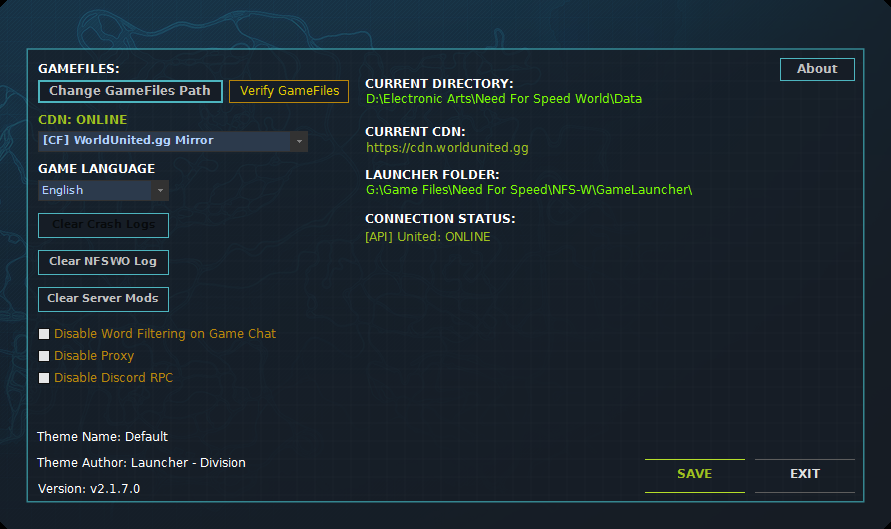
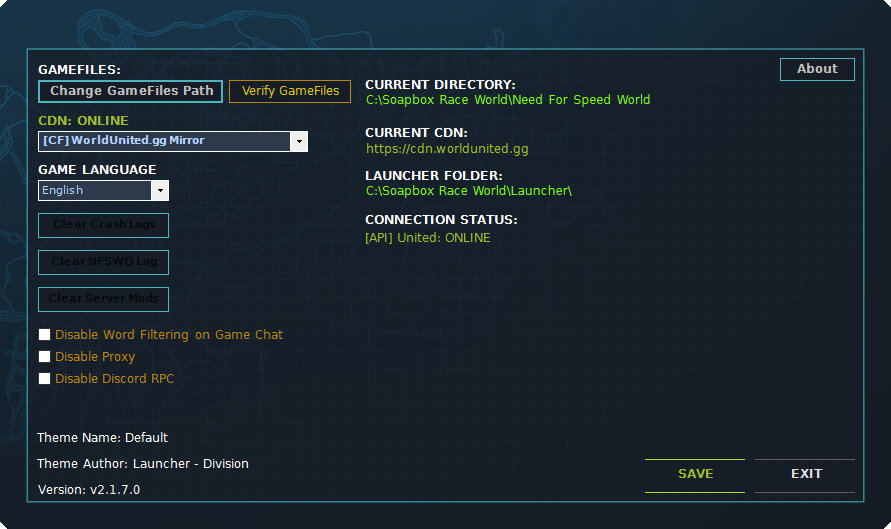
Touchups
Minor adjustments to UI/Alignment found when creating new Install Guide.

Updated github screenshots to account for DPI changes on W10 (which they were taken on)

diff --git a/GameLauncher/App/SettingsScreen.Designer.cs b/GameLauncher/App/SettingsScreen.Designer.cs
@@ -169,7 +169,7 @@ namespace GameLauncher.App
             this.SettingsVFilesButton.ForeColor = System.Drawing.Color.FromArgb(((int)(((byte)(224)))), ((int)(((byte)(200)))), ((int)(((byte)(0)))));
             this.SettingsVFilesButton.Location = new System.Drawing.Point(229, 80);
             this.SettingsVFilesButton.Name = "SettingsVFilesButton";
-            this.SettingsVFilesButton.Size = new System.Drawing.Size(120, 23);
+            this.SettingsVFilesButton.Size = new System.Drawing.Size(122, 23);
             this.SettingsVFilesButton.TabIndex = 177;
             this.SettingsVFilesButton.Text = "Verify GameFiles";
             this.SettingsVFilesButton.UseVisualStyleBackColor = false;
@@ -199,7 +199,7 @@ namespace GameLauncher.App
             this.SettingsCDNText.ForeColor = System.Drawing.Color.FromArgb(((int)(((byte)(224)))), ((int)(((byte)(224)))), ((int)(((byte)(224)))));
             this.SettingsCDNText.Location = new System.Drawing.Point(36, 109);
             this.SettingsCDNText.Name = "SettingsCDNText";
-            this.SettingsCDNText.Size = new System.Drawing.Size(103, 14);
+            this.SettingsCDNText.Size = new System.Drawing.Size(102, 14);
             this.SettingsCDNText.TabIndex = 172;
             this.SettingsCDNText.Text = "CDN: PINGING";
             this.SettingsCDNText.TextAlign = System.Drawing.ContentAlignment.BottomLeft;
@@ -227,7 +227,7 @@ namespace GameLauncher.App
             this.SettingsLanguageText.ForeColor = System.Drawing.Color.FromArgb(((int)(((byte)(224)))), ((int)(((byte)(224)))), ((int)(((byte)(224)))));
             this.SettingsLanguageText.Location = new System.Drawing.Point(36, 158);
             this.SettingsLanguageText.Name = "SettingsLanguageText";
-            this.SettingsLanguageText.Size = new System.Drawing.Size(125, 14);
+            this.SettingsLanguageText.Size = new System.Drawing.Size(124, 14);
             this.SettingsLanguageText.TabIndex = 163;
             this.SettingsLanguageText.Text = "GAME LANGUAGE";
             this.SettingsLanguageText.TextAlign = System.Drawing.ContentAlignment.BottomLeft;
@@ -254,7 +254,7 @@ namespace GameLauncher.App
             this.SettingsWordFilterCheck.ImageAlign = System.Drawing.ContentAlignment.MiddleLeft;
             this.SettingsWordFilterCheck.Location = new System.Drawing.Point(38, 325);
             this.SettingsWordFilterCheck.Name = "SettingsWordFilterCheck";
-            this.SettingsWordFilterCheck.Size = new System.Drawing.Size(253, 18);
+            this.SettingsWordFilterCheck.Size = new System.Drawing.Size(252, 18);
             this.SettingsWordFilterCheck.TabIndex = 168;
             this.SettingsWordFilterCheck.Text = "Disable Word Filtering on Game Chat";
             this.SettingsWordFilterCheck.TextAlign = System.Drawing.ContentAlignment.BottomLeft;
@@ -269,7 +269,7 @@ namespace GameLauncher.App
             this.SettingsProxyCheckbox.ImageAlign = System.Drawing.ContentAlignment.MiddleLeft;
             this.SettingsProxyCheckbox.Location = new System.Drawing.Point(38, 347);
             this.SettingsProxyCheckbox.Name = "SettingsProxyCheckbox";
-            this.SettingsProxyCheckbox.Size = new System.Drawing.Size(109, 18);
+            this.SettingsProxyCheckbox.Size = new System.Drawing.Size(108, 18);
             this.SettingsProxyCheckbox.TabIndex = 170;
             this.SettingsProxyCheckbox.Text = "Disable Proxy";
             this.SettingsProxyCheckbox.TextAlign = System.Drawing.ContentAlignment.BottomLeft;
@@ -284,7 +284,7 @@ namespace GameLauncher.App
             this.SettingsDiscordRPCCheckbox.ImageAlign = System.Drawing.ContentAlignment.MiddleLeft;
             this.SettingsDiscordRPCCheckbox.Location = new System.Drawing.Point(38, 369);
             this.SettingsDiscordRPCCheckbox.Name = "SettingsDiscordRPCCheckbox";
-            this.SettingsDiscordRPCCheckbox.Size = new System.Drawing.Size(151, 18);
+            this.SettingsDiscordRPCCheckbox.Size = new System.Drawing.Size(150, 18);
             this.SettingsDiscordRPCCheckbox.TabIndex = 173;
             this.SettingsDiscordRPCCheckbox.Text = "Disable Discord RPC";
             this.SettingsDiscordRPCCheckbox.TextAlign = System.Drawing.ContentAlignment.BottomLeft;
@@ -298,7 +298,7 @@ namespace GameLauncher.App
             this.SettingsGameFilesCurrentText.ForeColor = System.Drawing.Color.FromArgb(((int)(((byte)(224)))), ((int)(((byte)(224)))), ((int)(((byte)(224)))));
             this.SettingsGameFilesCurrentText.Location = new System.Drawing.Point(363, 73);
             this.SettingsGameFilesCurrentText.Name = "SettingsGameFilesCurrentText";
-            this.SettingsGameFilesCurrentText.Size = new System.Drawing.Size(154, 14);
+            this.SettingsGameFilesCurrentText.Size = new System.Drawing.Size(153, 14);
             this.SettingsGameFilesCurrentText.TabIndex = 183;
             this.SettingsGameFilesCurrentText.Text = "CURRENT DIRECTORY:";
             this.SettingsGameFilesCurrentText.TextAlign = System.Drawing.ContentAlignment.BottomLeft;
@@ -329,7 +329,7 @@ namespace GameLauncher.App
             this.SettingsCDNCurrentText.ForeColor = System.Drawing.Color.FromArgb(((int)(((byte)(224)))), ((int)(((byte)(224)))), ((int)(((byte)(224)))));
             this.SettingsCDNCurrentText.Location = new System.Drawing.Point(363, 121);
             this.SettingsCDNCurrentText.Name = "SettingsCDNCurrentText";
-            this.SettingsCDNCurrentText.Size = new System.Drawing.Size(110, 14);
+            this.SettingsCDNCurrentText.Size = new System.Drawing.Size(108, 14);
             this.SettingsCDNCurrentText.TabIndex = 184;
             this.SettingsCDNCurrentText.Text = "CURRENT CDN:";
             this.SettingsCDNCurrentText.TextAlign = System.Drawing.ContentAlignment.BottomLeft;

diff --git a/GameLauncher/App/WelcomeScreen.Designer.cs b/GameLauncher/App/WelcomeScreen.Designer.cs
@@ -57,7 +57,7 @@ namespace GameLauncher.App
             this.DownloadSourceText.ForeColor = System.Drawing.Color.FromArgb(((int)(((byte)(224)))), ((int)(((byte)(224)))), ((int)(((byte)(224)))));
             this.DownloadSourceText.Location = new System.Drawing.Point(9, 115);
             this.DownloadSourceText.Name = "DownloadSourceText";
-            this.DownloadSourceText.Size = new System.Drawing.Size(180, 14);
+            this.DownloadSourceText.Size = new System.Drawing.Size(177, 14);
             this.DownloadSourceText.TabIndex = 2;
             this.DownloadSourceText.Text = "CDN / Download Source:";
             this.DownloadSourceText.TextAlign = System.Drawing.ContentAlignment.MiddleCenter;
@@ -88,7 +88,7 @@ namespace GameLauncher.App
             this.Save.FlatStyle = System.Windows.Forms.FlatStyle.Flat;
             this.Save.Font = new System.Drawing.Font("DejaVu Sans", 9F, System.Drawing.FontStyle.Bold, System.Drawing.GraphicsUnit.Point, ((byte)(0)));
             this.Save.ForeColor = System.Drawing.Color.FromArgb(((int)(((byte)(224)))), ((int)(((byte)(224)))), ((int)(((byte)(224)))));
-            this.Save.Location = new System.Drawing.Point(9, 164);
+            this.Save.Location = new System.Drawing.Point(5, 164);
             this.Save.Name = "Save";
             this.Save.Size = new System.Drawing.Size(399, 32);
             this.Save.TabIndex = 5;
@@ -117,7 +117,7 @@ namespace GameLauncher.App
             this.APIErrorButton.FlatStyle = System.Windows.Forms.FlatStyle.Flat;
             this.APIErrorButton.Font = new System.Drawing.Font("DejaVu Sans", 9F, System.Drawing.FontStyle.Bold, System.Drawing.GraphicsUnit.Point, ((byte)(0)));
             this.APIErrorButton.ForeColor = System.Drawing.Color.FromArgb(((int)(((byte)(224)))), ((int)(((byte)(224)))), ((int)(((byte)(224)))));
-            this.APIErrorButton.Location = new System.Drawing.Point(148, 139);
+            this.APIErrorButton.Location = new System.Drawing.Point(143, 139);
             this.APIErrorButton.Name = "APIErrorButton";
             this.APIErrorButton.Size = new System.Drawing.Size(126, 26);
             this.APIErrorButton.TabIndex = 8;

diff --git a/GameLauncher/App/VerifyHash.cs b/GameLauncher/App/VerifyHash.cs
@@ -58,7 +58,7 @@ namespace GameLauncher.App
             VersionLabel.Text = "Version: v" + Application.ProductVersion;
             Log.Core("VerifyHash Opened");
             /* Clean up previous logs and start logging */
-            string[] filestocheck = new string[] { "validfiles.dat", "invalidfiles.dat", "Verify.log" };
+            string[] filestocheck = new string[] { "checksums.dat", "validfiles.dat", "invalidfiles.dat", "Verify.log" };
             foreach (String file in filestocheck)
             {
                 if (File.Exists(file)) File.Delete(file);
